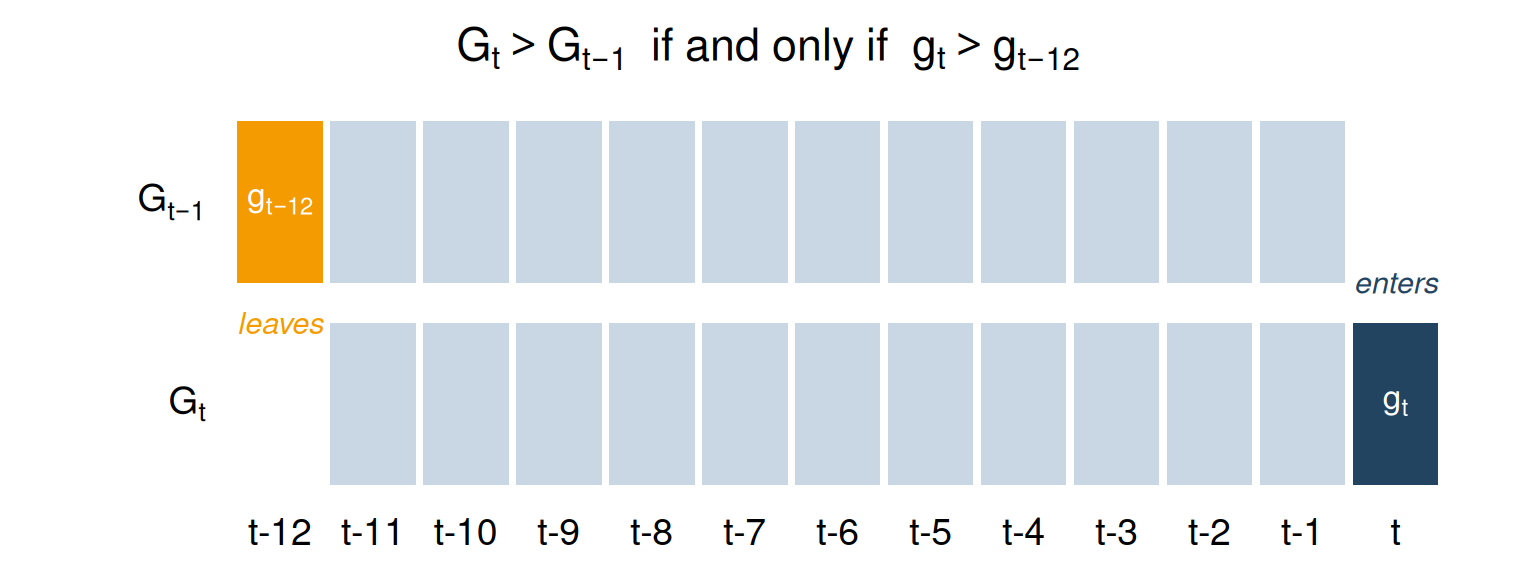
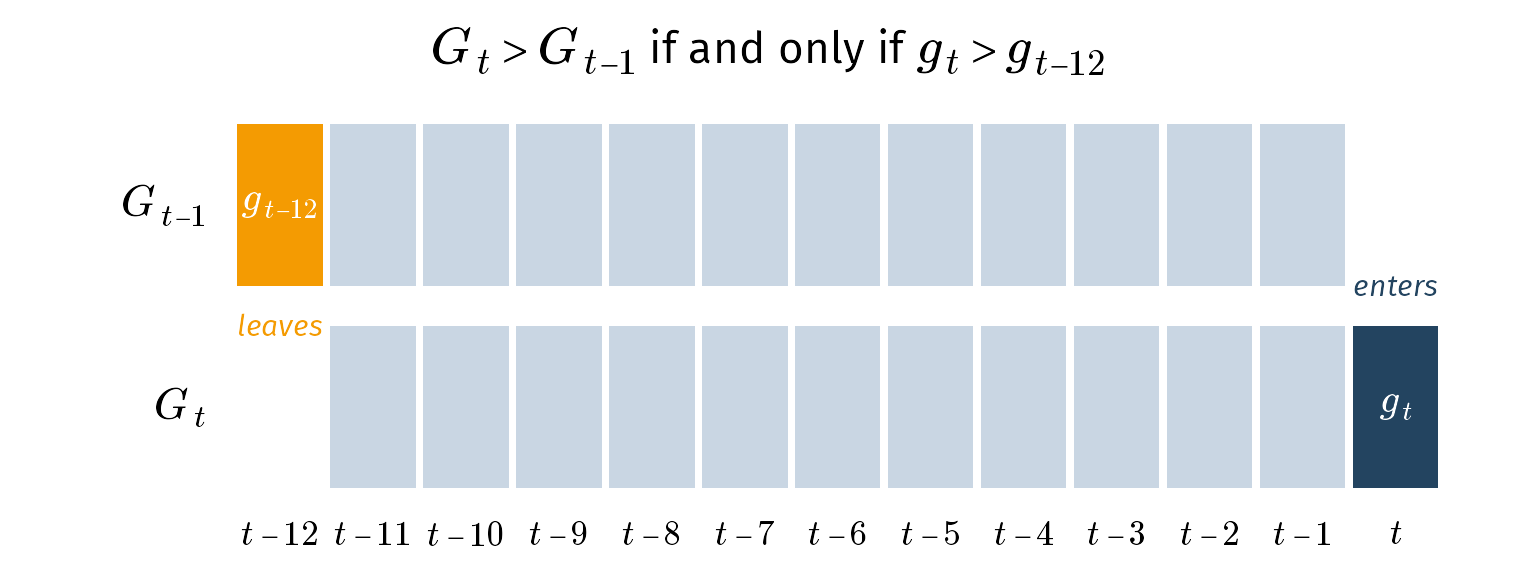
Copying otexts styling for graphic

diff --git a/.claude/CLAUDE.md b/.claude/CLAUDE.md
@@ -88,6 +88,10 @@ News items are stored in `news.yml` (not as individual files). Each entry has: `
 quarto render hyndsight/podcasts/index.qmd --no-cache
 ```
 
+## Plot fonts
+
+Posts with R plots start with a setup chunk, `source(here::here("plot-setup.R"))` with `#| include: false`, as the OTexts books do with `before-each-chapter.R`. It uses the `otexts` package (`~/git/OTexts/otexts`) to set the text in Fira Sans and the maths written with `TeX()` in the KaTeX fonts (the "BookMath" family), and switches knitr to `ragg_png`, which registered fonts need. It must be a separate chunk before the first plot, because `opts_chunk$set(dev = ...)` only affects later chunks. BookMath's bold and italic faces are KaTeX fonts, so bold or italic text needs `family = "Fira Sans"`.
+
 ## RSS feed post-processing
 
 After `quarto render`, run `Rscript make_xml.R` (done automatically by `make deploy`) to merge the publications and seminars RSS feeds into the main `index.xml` feed.
